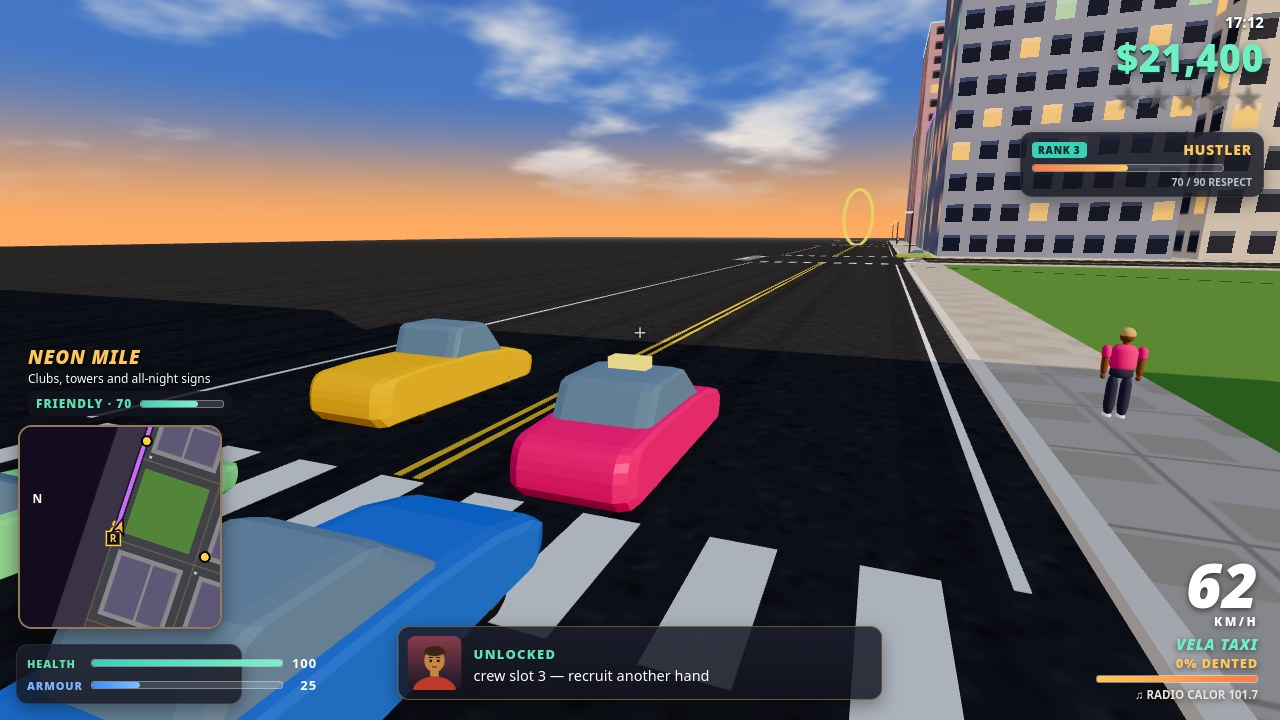
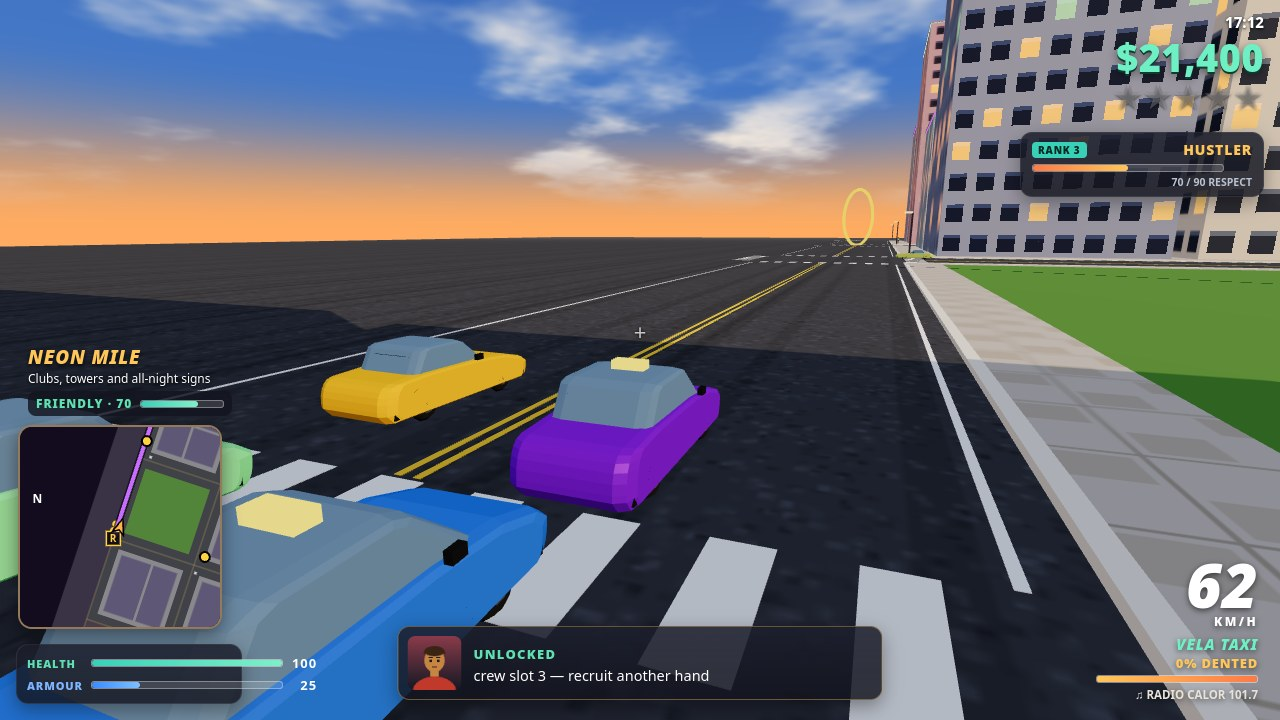
S9: taxi always Sunset Coral; rear glass/tail lamps pushed proud of the body; garage sign lowered into frame

diff --git a/game/src/vehicles/fleet.js b/game/src/vehicles/fleet.js
@@ -119,16 +119,16 @@ export function createFleet(scene, capacity = 64) {
       const ly = CLEAR + bh * 0.5;
       put(heads, i * 2, R, -bw * 0.33, ly, bl / 2 - 0.02, 0.46, 0.15, 0.1);
       put(heads, i * 2 + 1, R, bw * 0.33, ly, bl / 2 - 0.02, 0.46, 0.15, 0.1);
-      put(tails, i * 2, R, -bw * 0.32, CLEAR + bh * 0.62, -bl / 2 - 0.01, 0.58, 0.17, 0.1);
-      put(tails, i * 2 + 1, R, bw * 0.32, CLEAR + bh * 0.62, -bl / 2 - 0.01, 0.58, 0.17, 0.1);
+      put(tails, i * 2, R, -bw * 0.32, CLEAR + bh * 0.62, -bl / 2 - 0.05, 0.58, 0.17, 0.1);
+      put(tails, i * 2 + 1, R, bw * 0.32, CLEAR + bh * 0.62, -bl / 2 - 0.05, 0.58, 0.17, 0.1);
       put(grille, i * 2, R, 0, CLEAR + bh * 0.2, bl / 2 + 0.02, bw * 0.62, bh * 0.2, 0.1);
       put(grille, i * 2 + 1, R, 0, CLEAR + bh * 0.2, -bl / 2 - 0.02, bw * 0.7, bh * 0.18, 0.1);
       // rear face: dark rear window leaning with the cabin slope, bumpers, plates, exhausts
-      putTilt(rearGlass, i, R, 0, top + ch * 0.52, cz - cl * 0.44, cw * 0.78, ch * 0.52, 0.08, -0.16);
+      putTilt(rearGlass, i, R, 0, top + ch * 0.52, cz - cl * 0.47, cw * 0.78, ch * 0.55, 0.1, -0.15);
       put(bumpers, i * 2, R, 0, CLEAR + bh * 0.1, bl / 2 - 0.02, bw * 0.98, bh * 0.16, 0.12);
-      put(bumpers, i * 2 + 1, R, 0, CLEAR + bh * 0.1, -bl / 2 - 0.02, bw * 0.98, bh * 0.16, 0.12);
+      put(bumpers, i * 2 + 1, R, 0, CLEAR + bh * 0.1, -bl / 2 - 0.04, bw * 0.98, bh * 0.16, 0.12);
       put(plates, i * 2, R, 0, CLEAR + bh * 0.3, bl / 2 + 0.04, 0.52, 0.14, 0.05);
-      put(plates, i * 2 + 1, R, 0, CLEAR + bh * 0.3, -bl / 2 - 0.06, 0.52, 0.14, 0.05);
+      put(plates, i * 2 + 1, R, 0, CLEAR + bh * 0.3, -bl / 2 - 0.08, 0.52, 0.14, 0.05);
       put(exhausts, i * 2, R, -0.5, CLEAR + 0.14, -bl / 2 - 0.05, 0.15, 0.13, 0.22);
       put(exhausts, i * 2 + 1, R, 0.5, CLEAR + 0.14, -bl / 2 - 0.05, 0.15, 0.13, 0.22);
       put(mirrors, i * 2, R, -bw / 2 - 0.07, top + ch * 0.3, cz + cl * 0.32, 0.1, 0.13, 0.22);

diff --git a/game/src/systems/garage.js b/game/src/systems/garage.js
@@ -83,8 +83,8 @@ export function createGarages(game, scene) {
     }
     // shop sign: the name drawn on a canvas texture, pink neon letters on a dark board
     const signTex = shopSignTexture(shopName);
-    const sign = new THREE.Mesh(new THREE.BoxGeometry(6.5, 1.1, 0.25), new THREE.MeshBasicMaterial({ map: signTex }));
-    sign.position.set(0, 6.15, 0);
+    const sign = new THREE.Mesh(new THREE.BoxGeometry(6.5, 0.95, 0.25), new THREE.MeshBasicMaterial({ map: signTex }));
+    sign.position.set(0, 5.62, 0);
     canopy.add(sign);
     // props: a tyre stack, a red toolbox and two oil drums at the back of the pad
     const tyreGeo = new THREE.TorusGeometry(0.42, 0.17, 6, 12);

diff --git a/game/src/game.js b/game/src/game.js
@@ -41,6 +41,7 @@ export function createGame({ scene, random, input, aspect }) {
 
   // a ride waiting at the spawn kerb so driving is one keypress away
   const spawnCar = vehicles.parkNear(world.layout.spawn.x + 5, world.layout.spawn.z - 6, Math.PI / 2, 1); // the Vela Taxi: the hero car
+  vehicles.paint(spawnCar, 0xff5e5b); // Sunset Coral: the taxi's signature paint, same every run
   cam.snap({ x: player.state.x, z: player.state.z, heading: player.state.heading, inCar: false });
 
   const game = {
